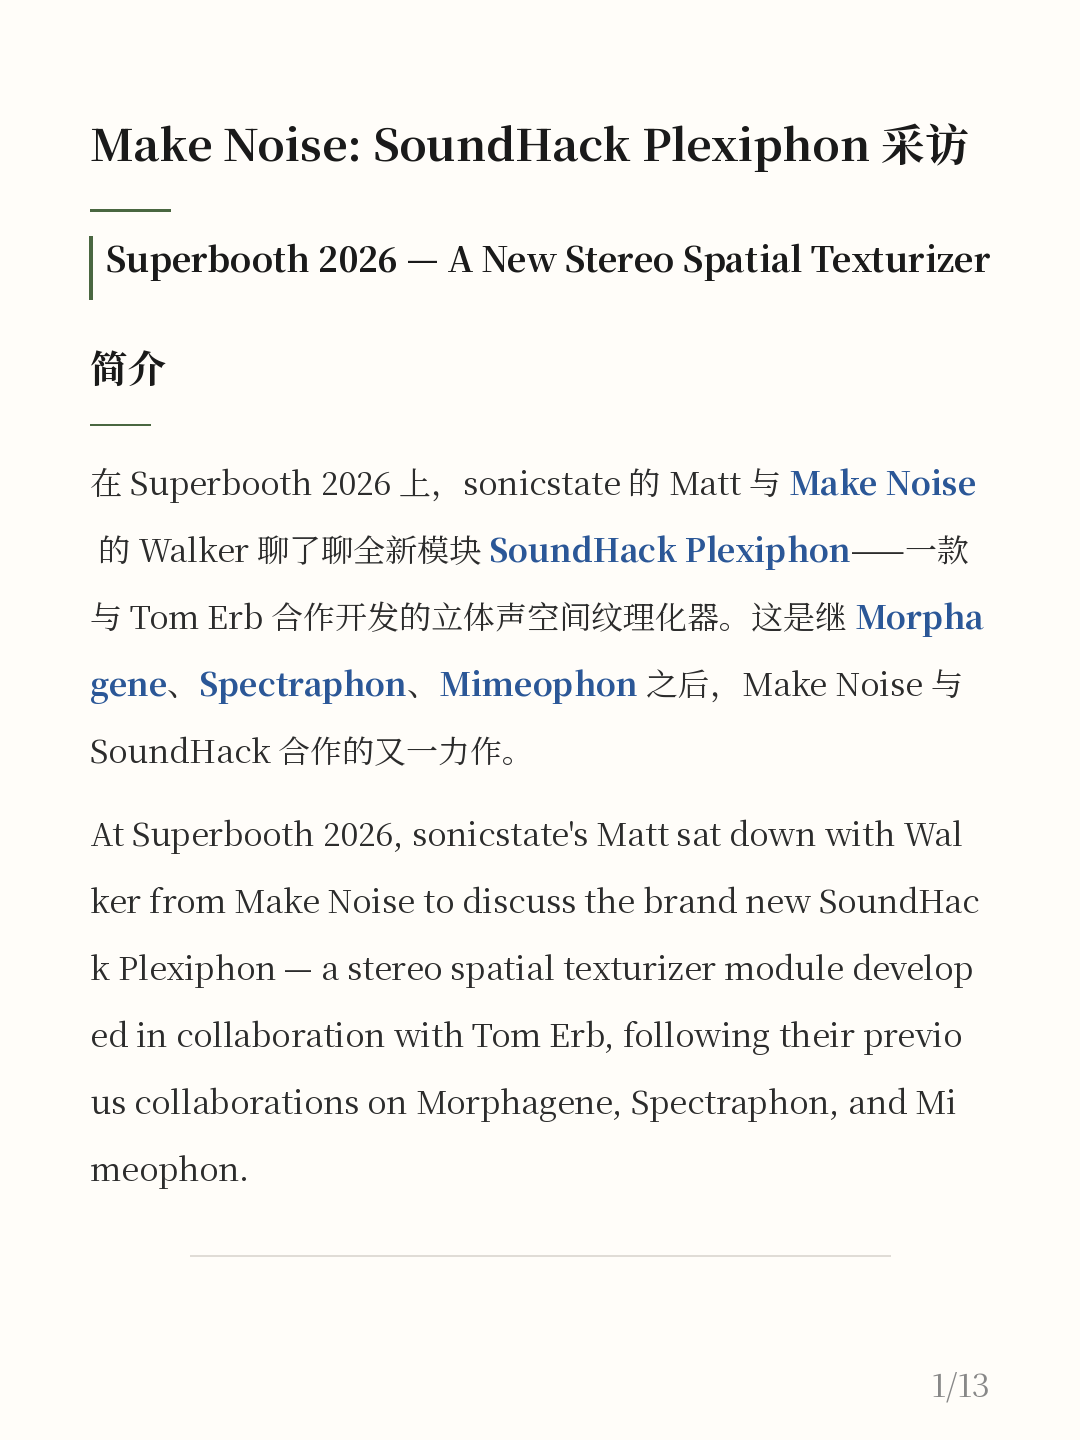
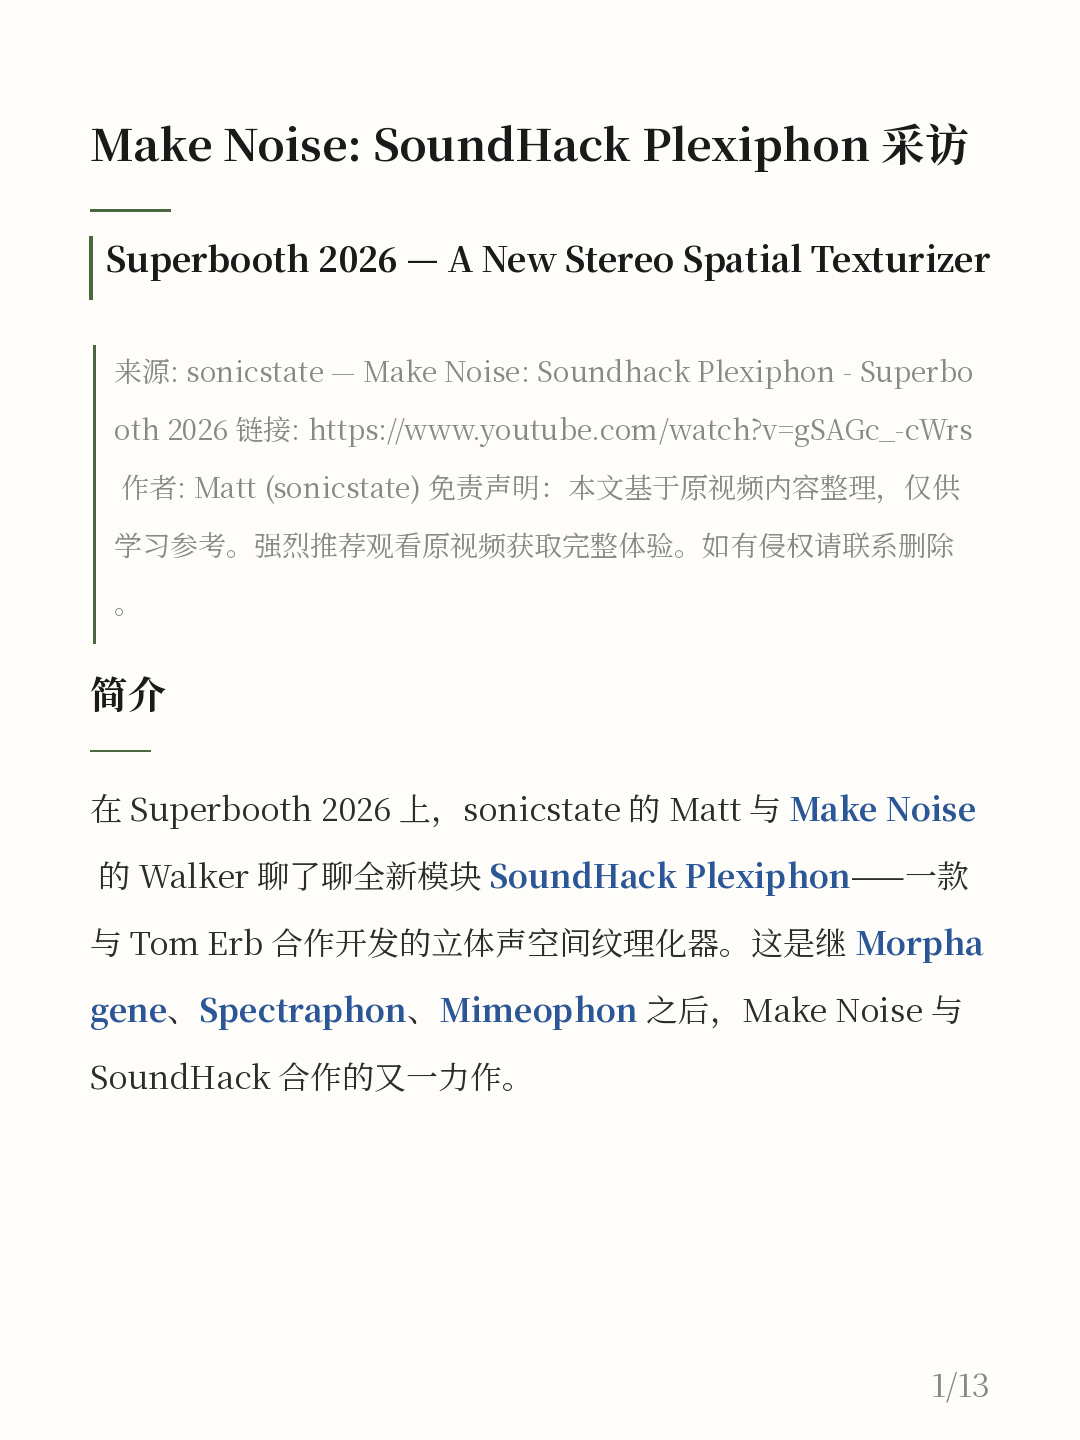
regenerate wechat html and xhs images with disclaimer

diff --git a/260508_sonicstate_MakeNoise_Plexiphon/wechat/article.html b/260508_sonicstate_MakeNoise_Plexiphon/wechat/article.html
@@ -71,6 +71,12 @@
 <section id="wx-article-root" style='max-width:677px; margin:0 auto; padding:20px 16px; color:#3f3f3f; font-family:"Source Han Serif SC", "Noto Serif SC", "Songti SC", "STSong", "SimSun", "Times New Roman", Georgia, serif; font-size:16px; line-height:1.85; letter-spacing:0.05em; word-break:break-word'>
 <h1 style="font-size:24px; font-weight:700; color:#1a1a1a; text-align:center; margin:28px 0 20px; line-height:1.4" align="center">Make Noise: SoundHack Plexiphon 采访</h1>
 <h3 style="font-size:17px; font-weight:700; color:#1a1a1a; margin:28px 0 12px; padding-left:10px; border-left:4px solid #1e88e5; line-height:1.4">Superbooth 2026 — A New Stereo Spatial Texturizer</h3>
+<blockquote style="margin:16px 0; padding:12px 16px; background:#f7f7f7; border-left:4px solid #1e88e5; color:#3f3f3f; font-size:14px; border-radius:0 4px 4px 0">
+<p style="margin:6px 0; color:#3f3f3f">来源: sonicstate — Make Noise: Soundhack Plexiphon - Superbooth 2026<br>
+链接: https://www.youtube.com/watch?v=gSAGc_-cWrs<br>
+作者: Matt (sonicstate)</p>
+<p style="margin:6px 0; color:#3f3f3f">免责声明：本文基于原视频内容整理，仅供学习参考。强烈推荐观看原视频获取完整体验。如有侵权请联系删除。</p>
+</blockquote>
 <h2 style="font-size:20px; font-weight:700; color:#1a1a1a; text-align:center; margin:36px 0 16px; line-height:1.4" align="center"><span style="display:inline-block;padding-bottom:8px;border-bottom:1px solid #1a1a1a;">简介</span></h2>
 <p style="margin:14px 0; color:#3f3f3f">在 Superbooth 2026 上，sonicstate 的 Matt 与 <strong style="color:#1e88e5; font-weight:700">Make Noise</strong> 的 Walker 聊了聊全新模块 <strong style="color:#1e88e5; font-weight:700">SoundHack Plexiphon</strong>——一款与 Tom Erb 合作开发的立体声空间纹理化器。这是继 <strong style="color:#1e88e5; font-weight:700">Morphagene</strong>、<strong style="color:#1e88e5; font-weight:700">Spectraphon</strong>、<strong style="color:#1e88e5; font-weight:700">Mimeophon</strong> 之后，Make Noise 与 SoundHack 合作的又一力作。</p>
 <p style="margin:14px 0; color:#3f3f3f">At Superbooth 2026, sonicstate's Matt sat down with Walker from Make Noise to discuss the brand new SoundHack Plexiphon — a stereo spatial texturizer module developed in collaboration with Tom Erb, following their previous collaborations on Morphagene, Spectraphon, and Mimeophon.</p>
